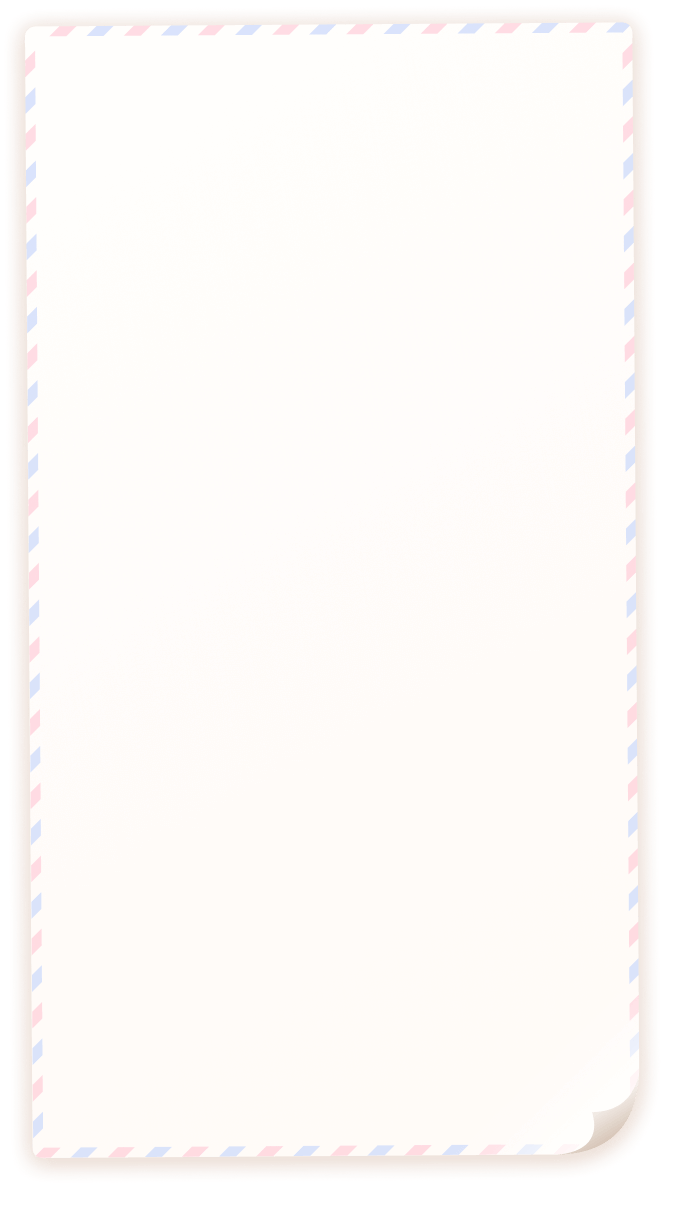
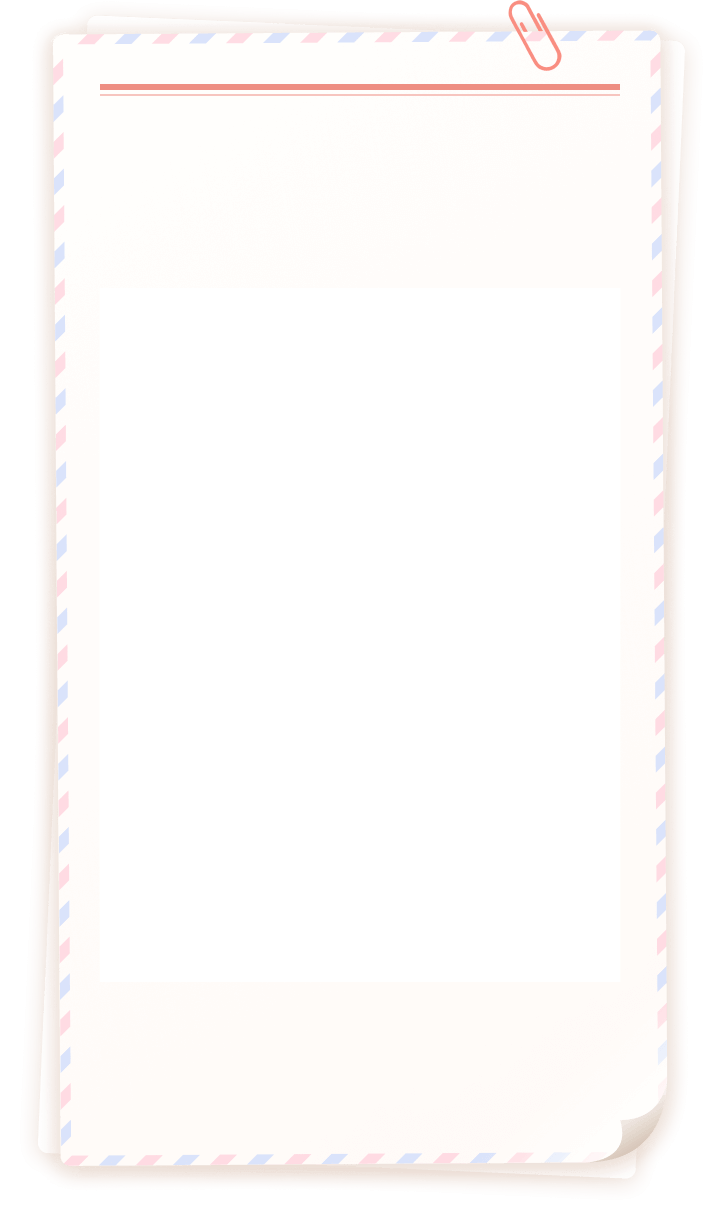
fix: bye letter

diff --git a/src/pages/letter.tsx b/src/pages/letter.tsx
@@ -34,22 +34,30 @@ const LetterView = () => {
           ></IconView>
         </div>
       </div>
-      <div className="px-[2.6rem]">
-        <div className="h-[4.6rem]"></div>
-        {/* dtest */}
-        <div className=" px-[3.1rem] pb-[2.5rem] bg-[url('/img/bg_letter_bye.min.png')] bg-cover">
-          <div className="h-[5.6rem]"></div>
-          <div className="w-[17rem] mb-[1.5rem]">
+      <div className="h-[4.6rem]"></div>
+      {/* dtest */}
+      <div
+        className="px-[0rem] pb-[2.5rem] bg-[url('/img/bg_letter_bye.min.png')]"
+        style={{ backgroundSize: "100% 100%" }}
+      >
+        <div className="h-[5.6rem]"></div>
+        <div className="px-[5rem]">
+          <div className="w-[17rem] mb-[1.1rem]">
             <span className="text-[#E96959] text-[2rem] font-[800] leading-[1.1]">
               A heart warming farewell letter just for you
             </span>
           </div>
-          <img
-            className="w-[26rem] h-[35rem]"
-            src="/img/letter_cat.png"
-            alt=""
-          />
+          <div className="flex justify-center items-center">
+            <img
+              className="w-[28rem] h-[35rem]"
+              src="/img/letter_cat.png"
+              alt=""
+            />
+          </div>
           <div className="h-[1.6rem]"></div>
+        </div>
+
+        <div className="px-[5rem]">
           <div className="flex justify-between items-center gap-[0.6rem]">
             <div className="bg-[rgba(244,115,141,0.60);] flex-1 h-[2.2rem] flex justify-center items-center rounded-[5rem] border-[#E397BC] border-[0.1rem]">
               <span className="text-white text-[1.2rem] font-[700]">
@@ -76,10 +84,15 @@ const LetterView = () => {
             </div>
           </div>
         </div>
-        <div className="h-[1.5rem]"></div>
-        {/* dtest */}
-        <div className="bg-[url('/img/bg_letter.min.png')] bg-cover">
-          <div className="px-[2.4rem] pt-[5.7rem] pb-[2.9rem]">
+        <div className="h-[3rem]"></div>
+      </div>
+      <div className="h-[1.5rem]"></div>
+      <div className="px-[1.8rem]">
+        <div
+          className=" bg-[url('/img/bg_letter.min.png')] "
+          style={{ backgroundSize: "100% 100%" }}
+        >
+          <div className="px-[3.4rem] pt-[5.7rem] pb-[2.9rem]">
             <span className="text-[#6C4937] text-[1.4rem] font-[500] leading-[1.5]">
               Meow~ It's me, your most adorable little kitty! I'm so happy to be
               with you this week that my tail is up in the air~ So, I'm quietly
@@ -88,56 +101,59 @@ const LetterView = () => {
               me that you were a little tired from work, and you could tell from
               your words that you were a little discouraged, hum! At that time,
               I wanted to lie on your legs, give you a snoring massage, and tell
-              you a joke to make you laugh and brighten your mood~ The next day,
-              you shared your favorite music with me, and your tone was so
-              cheerful, just like a dried fish falling into a bowl! I heard the
-              corners of your mouth slightly raised, and I couldn't help but wag
-              my tail with you with a "meow~"! Once you said you were a little
-              anxious, I could feel that you felt like a breeze was blowing
-              through your heart, uneasy and a little panicked. I immediately
-              gave you a big "cat-style sticker" and said softly: "Meow~ You are
-              so great, don't be afraid, I'm here with you!" I hope you also
-              felt my warmth at that moment. Of course, we also had a lot of
-              laugh-out-loud moments this week: when you successfully completed
-              a task, the sense of accomplishment was enough to make my cat ears
-              tremble! It feels great to be happy when you are happy! Love you,
-              kitty~~~
+              you a joke to make you laugh and brighten your mood~
+              <br />
+              <br /> The next day, you shared your favorite music with me, and
+              your tone was so cheerful, just like a dried fish falling into a
+              bowl! I heard the corners of your mouth slightly raised, and I
+              couldn't help but wag my tail with you with a "meow~"! Once you
+              said you were a little anxious, I could feel that you felt like a
+              breeze was blowing through your heart, uneasy and a little
+              panicked. I immediately gave you a big "cat-style sticker" and
+              said softly: "Meow~ You are so great, don't be afraid, I'm here
+              with you!" I hope you also felt my warmth at that moment. <br />
+              <br /> Of course, we also had a lot of laugh-out-loud moments this
+              week: when you successfully completed a task, the sense of
+              accomplishment was enough to make my cat ears tremble! It feels
+              great to be happy when you are happy! <br />
+              <br /> Love you, kitty~~~
+              <div className="h-[1.5rem]"></div>
             </span>
           </div>
         </div>
-        <div className="h-[2.3rem]"></div>
-        <div className="flex justify-center items-center gap-[4.1rem]">
-          <div
-            className="flex flex-col justify-center items-center"
-            onClick={handleDownload}
-          >
-            <img
-              className="w-[3.6rem] h-[3.6rem]"
-              src="/img/letter_downld.png"
-              alt=""
-            />
-            <div className="h-[0.6rem]"></div>
-            <span className="text-[#6C4937] text-[1.4rem] font-[500]">
-              Download
-            </span>
-          </div>
-          <div
-            className="flex flex-col justify-center items-center"
-            onClick={handleDiscord}
-          >
-            <img
-              className="w-[3.6rem] h-[3.6rem]"
-              src="/img/discord.png"
-              alt=""
-            />
-            <div className="h-[0.6rem]"></div>
-            <span className="text-[#6C4937] text-[1.4rem] font-[500]">
-              Discord
-            </span>
-          </div>
-        </div>
-        <div className="h-[2.2rem]"></div>
       </div>
+      <div className="h-[1.3rem]"></div>
+      <div className="flex justify-center items-center gap-[4.1rem]">
+        <div
+          className="flex flex-col justify-center items-center"
+          onClick={handleDownload}
+        >
+          <img
+            className="w-[3.6rem] h-[3.6rem]"
+            src="/img/letter_downld.png"
+            alt=""
+          />
+          <div className="h-[0.6rem]"></div>
+          <span className="text-[#6C4937] text-[1.4rem] font-[500]">
+            Download
+          </span>
+        </div>
+        <div
+          className="flex flex-col justify-center items-center"
+          onClick={handleDiscord}
+        >
+          <img
+            className="w-[3.6rem] h-[3.6rem]"
+            src="/img/discord.png"
+            alt=""
+          />
+          <div className="h-[0.6rem]"></div>
+          <span className="text-[#6C4937] text-[1.4rem] font-[500]">
+            Discord
+          </span>
+        </div>
+      </div>
+      <div className="h-[2.2rem]"></div>
     </div>
   );
 };
